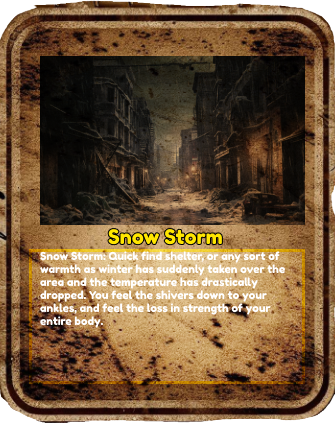
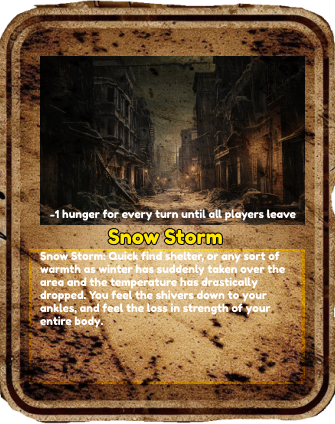
update playtest

diff --git a/content/log/_index.md b/content/log/_index.md
@@ -2,8 +2,49 @@
 title: Playtesting/Meeting Log
 ---
 
-# Playtest Logs
-
-
 # Meeting Logs
 * [Meeting Minutes PDF Download](/meeting-minutes.pdf)
+
+# Playtesting
+## Playtesting Log 1
+* Initial playtest of the game showed that the scope of the project was
+  too large and that reworks in certain mechanics were necessary
+* Ranged combat mechanic had been reworked as it was too
+  complex. Initially, we decided that the monster would always attack
+  first, unless the player had a ranged weapon, in which then they could
+  use it before the fight begun, but you can only use ranged weapons
+  once. This additional mechanic has been scrapped.
+* Even though the game is supposed to be very hard, it was too hard
+  because we constantly lose hunger and health from encounters very
+  quickly, yet obtaining resources to replenish said health and hunger
+  were nearly impossible due to the odds
+* Each player now starts with 1 bandage item and 1 food item
+* Hunger no longer drops when you decide to stay on a tile without
+  moving; you only lose hunger when you decide to move.
+* Max hunger points capped at 5 instead of 10 and initial hunger starts
+  at 3 instead of 6 to compensate for hunger changes
+* Redefined the meaning of day and turn
+  * 1 Turn = 1 Player making their actions
+  * 1 Day = After everyone has gone their turn and now its the turn of
+    the person that made the first turn
+* Added new mechanic: after every day, monsters spawn; this is to
+  encourage players to not camp a tile
+* Reworked combat damage: all weapons can deal 3 types of damage: bad,
+  base, or crit. Roll dice to figure out which type of attack to deal
+* Added hostile NPC
+* Added trader NPC
+
+## Playtesting Log 2
+* Second playtest was a significant improvement to the first as
+  everything went smoother, the game was more fun and many changes done
+  in playtesting 1 had simplified a lot of complexity, such as the
+  ranged weapon mechanic
+* Night time zombie spawning mechanic essentially encouraged the last
+  player to not "look around" their tile since there is a high chance a
+  monster will spawn and they would have to fight monsters back to back,
+  so we made it so that night time zombies ONLY spawn on Day 2, 4 and 6
+* Normalized all odds that were multiples of 5 to be multiples of 10, in
+  consideration of the 10 sided die that will be used
+* Included snowstorm mechanic in order to force players off of a tile
+  (prevent camping and encourage moving)
+* Reduced board size to 6 wide and 6 tall

diff --git a/content/credits/_index.md b/content/credits/_index.md
@@ -3,9 +3,8 @@ title: Acknowledgements
 ---
 
 # Trailer
-* All media are stock resources from getty images, we are free to use
-  them for anything non-commerce.
-* Generated with <https://www.idomoo.ai/>
+* Video was completely created using generative ai
+  https://www.idomoo.ai/ from text prompts
 
 # Images
 * Tile/Tile events: Midjourney (<https://www.midjourney.com>)
